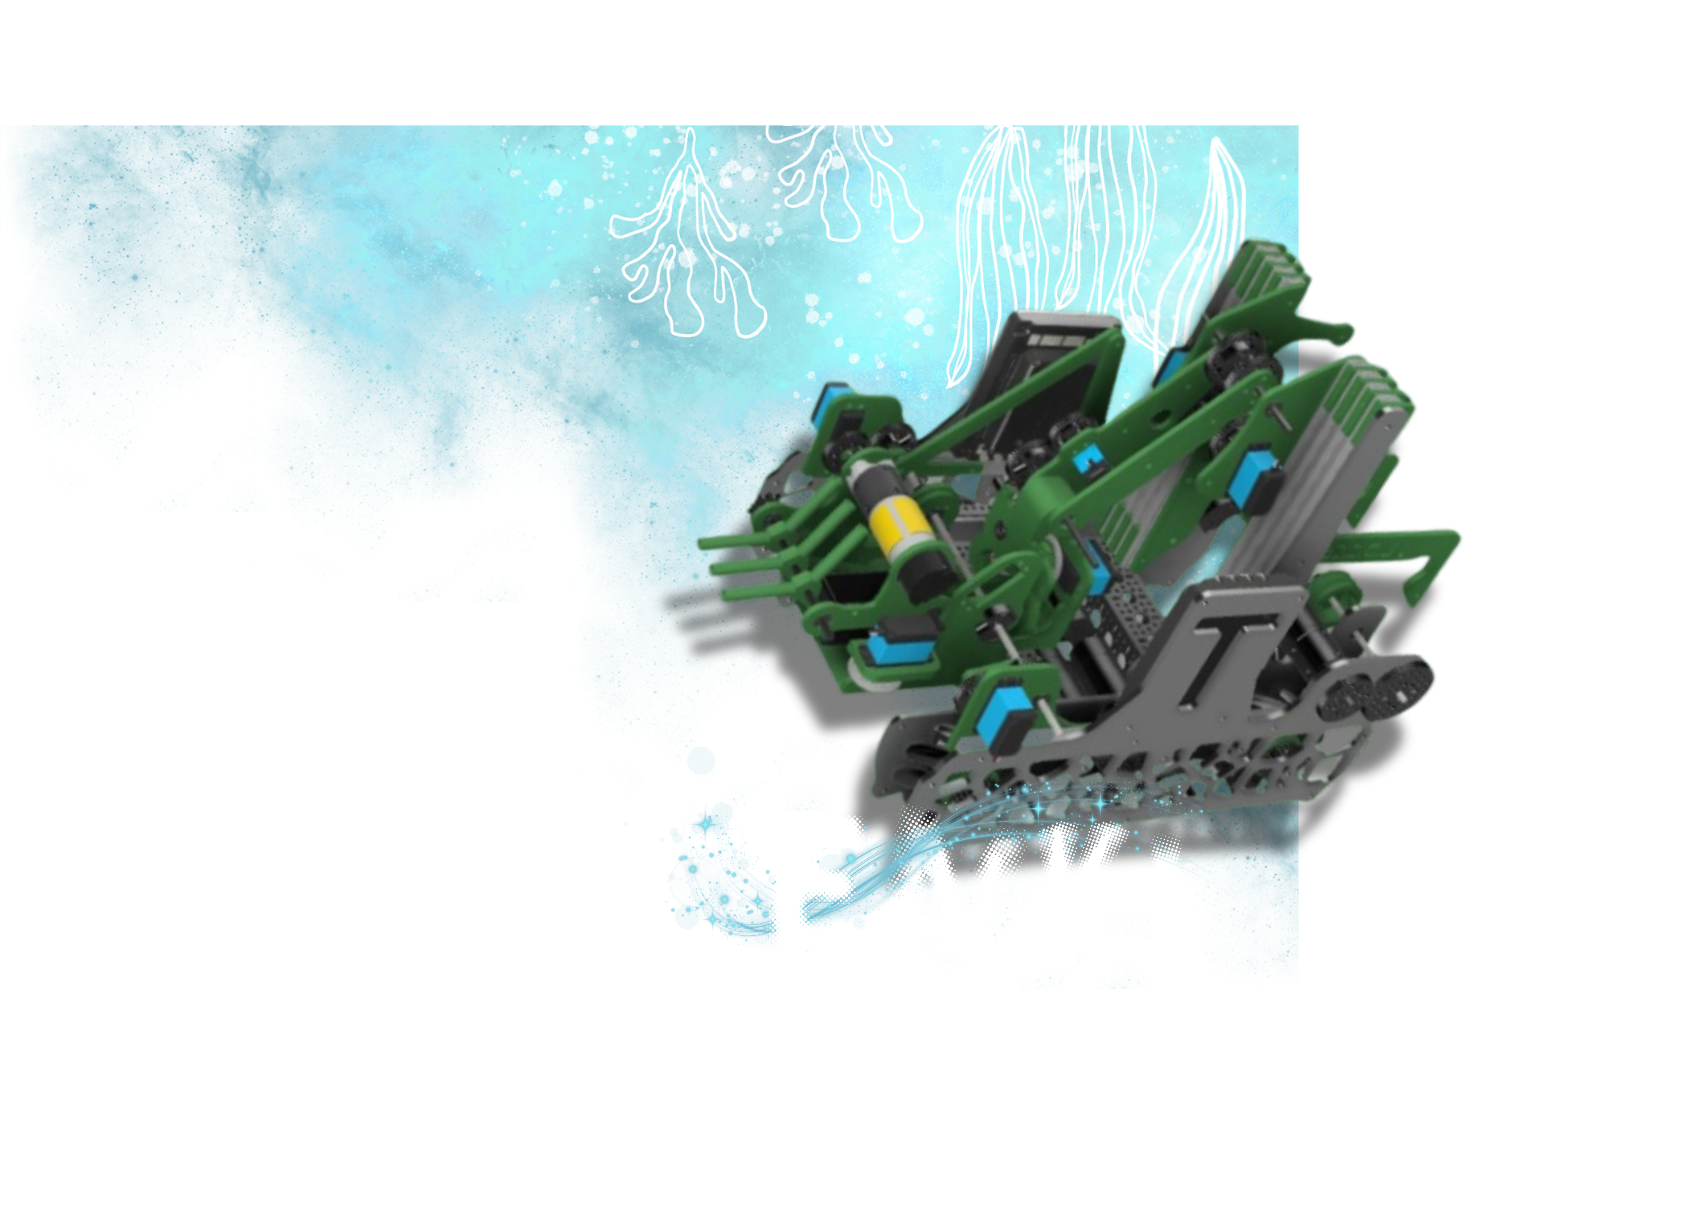
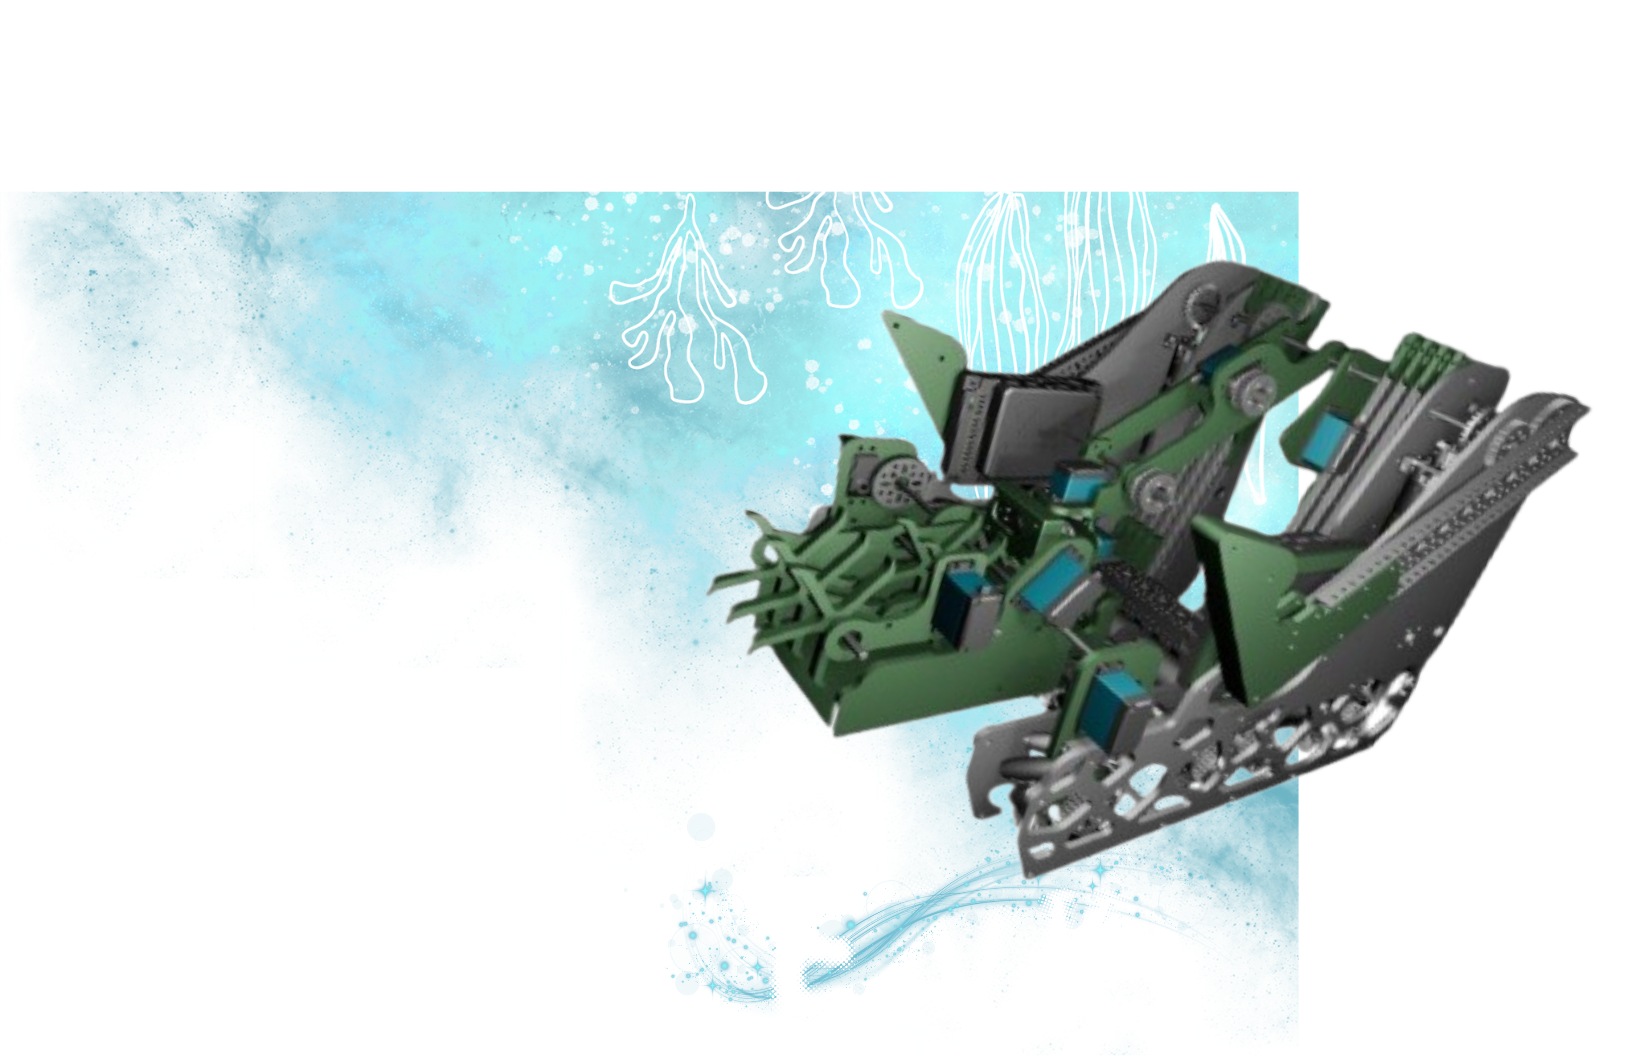
Swapped season design with new robot model

diff --git a/src/App.jsx b/src/App.jsx
@@ -72,7 +72,7 @@ function MainRoutes() {
         <Route path="/"                   element={<Home           key={location.pathname} />} />
         <Route path="/termsAndConditions" element={<TOS            key={location.pathname} />} />
         <Route path="/privacyPolicy"      element={<PrivacyPolicy  key={location.pathname} />} />
-        <Route path="/pentruSponsori"     element={<PentruSponsori key={location.pathname} storage={firestore.storage} dataBase={firestore.getDb()}/>} />
+        <Route path="/sponsori"     element={<PentruSponsori key={location.pathname} storage={firestore.storage} dataBase={firestore.getDb()}/>} />
         <Route path="/formularOnline"     element={<FormularOnline key={location.pathname} storage={firestore.storage} dataBase={firestore.getDb()}/>} />
         <Route path="/apps"               element={<Apps           key={location.pathname} apps={apps} />} />
         <Route path="/departamente"       element={<Departamente   key={location.pathname} />} />

diff --git a/src/components/utils/styles/aboutSection.scss b/src/components/utils/styles/aboutSection.scss
@@ -36,14 +36,14 @@
         &.seasonDesign1 {
             width: 80vw;
             height: auto;
-            top: calc(-120vh);
+            top: calc(-125vh);
             right: -20vw;
             @media(max-width: 800px){
-                top: calc(-110vh);
+                top: calc(-115vh);
                 width: 90vw;
             }
             @media(max-width: 480px){
-                top: calc(-110vh);
+                top: calc(-115vh);
                 width: 140vw;
                 right: -40vw;
             }

diff --git a/src/components/utils/navbarNew.jsx b/src/components/utils/navbarNew.jsx
@@ -60,7 +60,7 @@ function Navbar() {
               <Link className="headerButton shadowText" to="/">Acasă</Link>
             </li>
             <li>
-              <Link className="headerButton shadowText" to={"/pentruSponsori"} >Ajută-ne!</Link>
+              <Link className="headerButton shadowText" to={"/sponsori"} >Ajută-ne!</Link>
             </li>
             <li>
               <Link className="headerButton shadowText" to="/roboti">Robot</Link>
